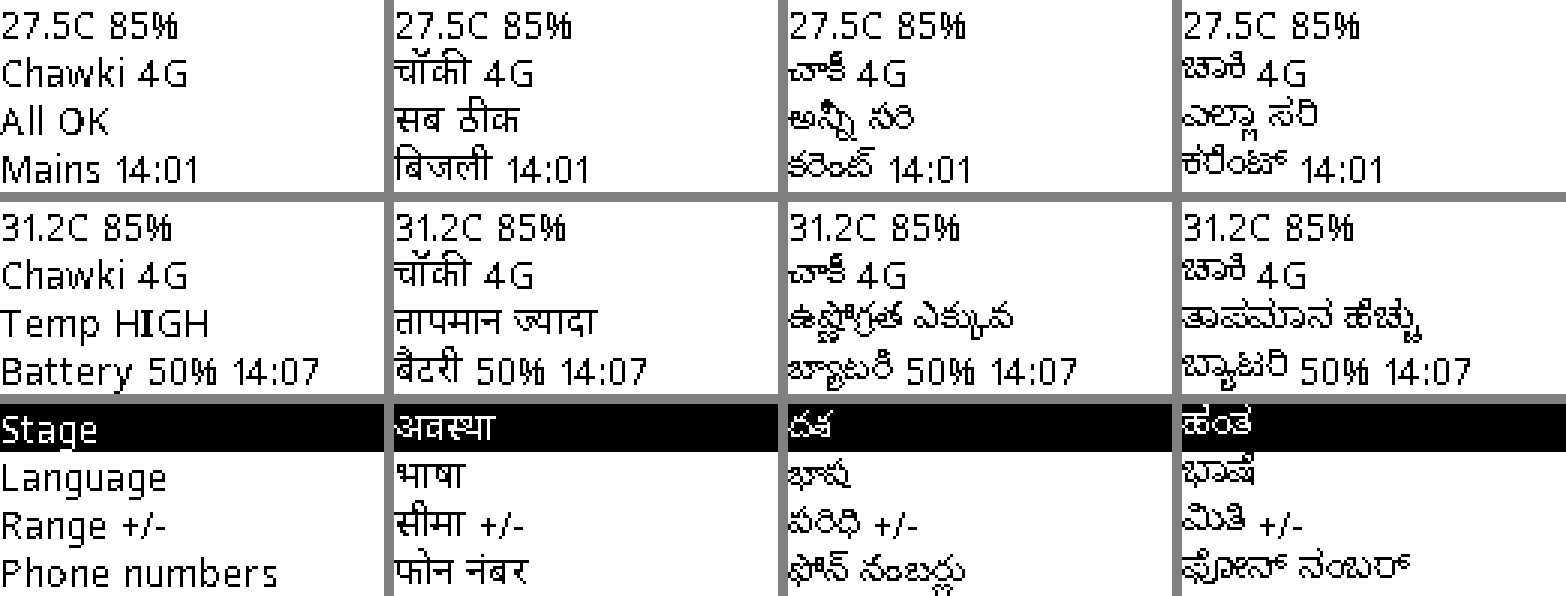
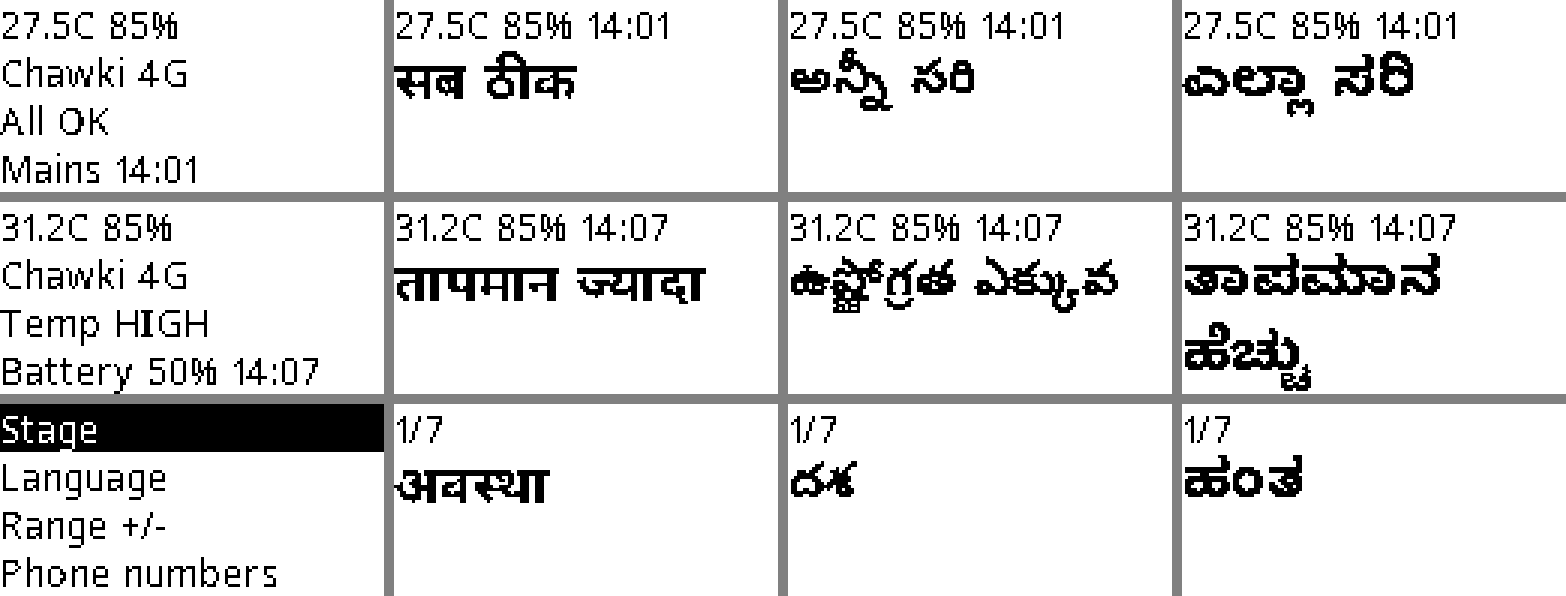
OLED large mode for Hindi/Telugu/Kannada (one item, 24 px, wrapped); record PO decisions D-033..D-035
Claude-Session: https://claude.ai/code/session_01FRs7iceLQ8kj3iKkYUVxzA

diff --git a/firmware/lib/core/src/ui.cpp b/firmware/lib/core/src/ui.cpp
@@ -56,12 +56,14 @@ void Ui::message(UiText t, int64_t now) {
 }
 
 void Ui::tick(int64_t now) {
+  uiNow_ = now;
   if (page_ == Page::Message && now >= msgUntil_) go(Page::Home);
   else if (page_ != Page::Home && page_ != Page::Message && now - lastPress_ > kIdleSec) go(Page::Home);
 }
 
 void Ui::press(Button b, int64_t now) {
   lastPress_ = now;
+  uiNow_ = now;
   const int step = b == Button::Down ? 1 : (b == Button::Up ? -1 : 0);
   Settings s = m_.settings();
   switch (page_) {
@@ -144,75 +146,97 @@ void Ui::press(Button b, int64_t now) {
   }
 }
 
-Screen Ui::render(const UiStatus& st) const {
+std::vector<std::string> Ui::listItems() const {
   const Language L = lang();
   const Settings& s = m_.settings();
   auto T = [L](UiText t) { return std::string(uiText(t, L)); };
+  std::vector<std::string> items;
   switch (page_) {
-    case Page::Home: {
-      Screen sc;
-      sc.bigFirstLine = true;
-      const Sample& x = m_.lastSample();
-      sc.lines.push_back(x.valid ? fmt::temp(x.t) + " " + fmt::rh(x.rh) : "--.-C --%");
-      const std::string link = st.wifi ? "WiFi" : (st.network ? "4G" : "4G x");
-      sc.lines.push_back(std::string(stageName(s.stage, L)) + " " + link);
-      std::string status = T(kUiAllOk);
-      for (int i = 0; i < kEventTypeCount; ++i)
-        if (m_.active(static_cast<EventType>(i))) { status = shortEventPhrase(static_cast<EventType>(i), false, L); break; }
-      sc.lines.push_back(status);
-      std::string power = m_.onBattery() ? T(kUiBattery) + " " + std::to_string(m_.batteryPct()) + "%" : T(kUiMains);
-      sc.lines.push_back(power + " " + fmt::hhmm(st.now));
-      return sc;
-    }
-    case Page::Message: {
-      Screen sc;
-      sc.lines = {"", T(msg_), "", ""};
-      return sc;
-    }
     case Page::Menu:
-      return listScreen({T(kUiStage), T(kUiLanguage), T(kUiRange), T(kUiPhones),
-                         T(kUiBuzzer) + ": " + T(s.buzzerOn ? kUiOn : kUiOff), T(kUiPrintTest), T(kUiBack)},
-                        cursor_);
-    case Page::Stage: {
-      std::vector<std::string> items;
+      return {T(kUiStage), T(kUiLanguage), T(kUiRange), T(kUiPhones),
+              T(kUiBuzzer) + ": " + T(s.buzzerOn ? kUiOn : kUiOff), T(kUiPrintTest), T(kUiBack)};
+    case Page::Stage:
       for (int i = 0; i < kStageCount; ++i) items.push_back(stageName(static_cast<Stage>(i), L));
-      return listScreen(items, cursor_);
-    }
-    case Page::Language: {
-      std::vector<std::string> items;
+      return items;
+    case Page::Language:
       for (int i = 0; i < kLanguageCount; ++i) items.push_back(languageName(static_cast<Language>(i)));
-      return listScreen(items, cursor_);
-    }
-    case Page::RangeT:
-    case Page::RangeRh: {
-      Screen sc;
-      sc.lines = {T(kUiRange), "+/-" + fmt::signedTenths(editTol_.t, true) + "C", "+/-" + fmt::rh(editTol_.rh), ""};
-      sc.highlight = page_ == Page::RangeT ? 1 : 2;
-      return sc;
-    }
-    case Page::Phones: {
-      std::vector<std::string> items;
+      return items;
+    case Page::Phones:
       for (int i = 0; i < kMaxRecipients; ++i)
         items.push_back(std::to_string(i + 1) + " " + (s.phone[i].empty() ? T(kUiEmpty) : s.phone[i]));
       items.push_back(T(kUiBack));
-      return listScreen(items, cursor_);
-    }
-    case Page::PhoneSlot: {
-      std::vector<std::string> items = {T(kUiChange)};
+      return items;
+    case Page::PhoneSlot:
+      items.push_back(T(kUiChange));
       if (slot_ != 0) items.push_back(T(kUiRemove));
       items.push_back(T(kUiBack));
-      Screen sc = listScreen(items, cursor_);
+      return items;
+    default:
+      return items;
+  }
+}
+
+Screen Ui::render(const UiStatus& st) const {
+  const Language L = lang();
+  const bool large = L != Language::English && page_ != Page::PhoneEdit;  // D-033
+  const Settings& s = m_.settings();
+  auto T = [L](UiText t) { return std::string(uiText(t, L)); };
+  Screen sc;
+  switch (page_) {
+    case Page::Home: {
+      const Sample& x = m_.lastSample();
+      const std::string reading = x.valid ? fmt::temp(x.t) + " " + fmt::rh(x.rh) : "--.-C --%";
+      const std::string link = st.wifi ? "WiFi" : (st.network ? "4G" : "4G x");
+      const std::string stage = std::string(stageName(s.stage, L)) + " " + link;
+      std::string status = T(kUiAllOk);
+      for (int i = 0; i < kEventTypeCount; ++i)
+        if (m_.active(static_cast<EventType>(i))) { status = shortEventPhrase(static_cast<EventType>(i), false, L); break; }
+      const std::string power = m_.onBattery() ? T(kUiBattery) + " " + std::to_string(m_.batteryPct()) + "%" : T(kUiMains);
+      if (large) {  // one item at a time, changing every 3 s
+        sc.large = true;
+        sc.header = reading + " " + fmt::hhmm(st.now);
+        const std::string items[3] = {status, stage, power};
+        sc.body = items[(uiNow_ / 3) % 3];
+        return sc;
+      }
+      sc.bigFirstLine = true;
+      sc.lines = {reading, stage, status, power + " " + fmt::hhmm(st.now)};
+      return sc;
+    }
+    case Page::Message:
+      if (large) { sc.large = true; sc.body = T(msg_); return sc; }
+      sc.lines = {"", T(msg_), "", ""};
+      return sc;
+    case Page::RangeT:
+    case Page::RangeRh: {
+      const std::string tval = "+/-" + fmt::signedTenths(editTol_.t, true) + "C", rval = "+/-" + fmt::rh(editTol_.rh);
+      if (large) {
+        sc.large = true;
+        sc.header = page_ == Page::RangeT ? "1/2" : "2/2";
+        sc.body = page_ == Page::RangeT ? tval : rval;
+        return sc;
+      }
+      sc.lines = {T(kUiRange), tval, rval, ""};
+      sc.highlight = page_ == Page::RangeT ? 1 : 2;
       return sc;
     }
     case Page::PhoneEdit: {
-      Screen sc;
       std::string marker(10, ' ');
       marker[digitPos_] = '^';
       sc.lines = {T(slot_ == 0 ? kUiOwner : kUiNumber), digits_, marker, ""};
       return sc;
     }
+    default: {
+      const std::vector<std::string> items = listItems();
+      if (large) {
+        sc.large = true;
+        sc.header = std::to_string(cursor_ + 1) + "/" + std::to_string(items.size());
+        sc.body = items.empty() ? "" : items[cursor_];
+        return sc;
+      }
+      return listScreen(items, cursor_);
+    }
   }
-  return {};
 }
 
 }  // namespace seri

diff --git a/firmware/test/test_ui/test_ui.cpp b/firmware/test/test_ui/test_ui.cpp
@@ -103,8 +103,16 @@ static void test_language_change_switches_the_whole_ui() {
   TEST_ASSERT_EQUAL(Language::Telugu, r.m.settings().lang[0]);
   r.run(5);
   TEST_ASSERT_EQUAL(Ui::Page::Home, r.ui.page());
-  TEST_ASSERT_EQUAL_STRING("అన్నీ సరి", r.screen().lines[2].c_str());
-  TEST_ASSERT_EQUAL_STRING("చాకీ 4G", r.screen().lines[1].c_str());
+  Screen home = r.screen();  // Telugu: large mode (D-033), one item at a time
+  TEST_ASSERT_TRUE(home.large);
+  bool sawOk = false, sawStage = false;
+  for (int i = 0; i < 9; ++i) {
+    sawOk |= r.screen().body == "అన్నీ సరి";
+    sawStage |= r.screen().body == "చాకీ 4G";
+    r.run(1);
+  }
+  TEST_ASSERT_TRUE(sawOk);
+  TEST_ASSERT_TRUE(sawStage);
 }
 
 static void test_range_edit_changes_tolerance() {
@@ -198,6 +206,55 @@ static void test_idle_returns_home() {
   TEST_ASSERT_EQUAL(Ui::Page::Home, r.ui.page());
 }
 
+static void switchToTelugu(Rig& r) {
+  Settings s = r.m.settings();
+  s.lang[0] = Language::Telugu;
+  r.m.changeSettings(s);
+}
+
+static void test_indian_language_home_uses_large_mode_and_rotates() {
+  Rig r;
+  switchToTelugu(r);
+  Screen s = r.screen();
+  TEST_ASSERT_TRUE(s.large);
+  TEST_ASSERT_EQUAL_STRING("27.5C 85% 14:06", s.header.c_str());
+  std::vector<std::string> seen;
+  for (int i = 0; i < 9; ++i) { seen.push_back(r.screen().body); r.run(1); }
+  auto has = [&](const char* x) { for (auto& b : seen) if (b == x) return true; return false; };
+  TEST_ASSERT_TRUE_MESSAGE(has("అన్నీ సరి"), "status shown");
+  TEST_ASSERT_TRUE_MESSAGE(has("చాకీ 4G"), "stage shown");
+  TEST_ASSERT_TRUE_MESSAGE(has("కరెంట్"), "power shown");
+}
+
+static void test_indian_language_menu_shows_one_large_item_with_position() {
+  Rig r;
+  switchToTelugu(r);
+  r.press(Button::Ok);
+  Screen s = r.screen();
+  TEST_ASSERT_TRUE(s.large);
+  TEST_ASSERT_EQUAL_STRING("దశ", s.body.c_str());
+  TEST_ASSERT_EQUAL_STRING("1/7", s.header.c_str());
+  r.press(Button::Down);
+  TEST_ASSERT_EQUAL_STRING("భాష", r.screen().body.c_str());
+  TEST_ASSERT_EQUAL_STRING("2/7", r.screen().header.c_str());
+}
+
+static void test_english_keeps_four_line_mode() {
+  Rig r;
+  TEST_ASSERT_FALSE(r.screen().large);
+}
+
+static void test_phone_editor_stays_small_in_every_language() {
+  Rig r;
+  switchToTelugu(r);
+  r.press(Button::Ok);
+  for (int i = 0; i < 3; ++i) r.press(Button::Down);
+  r.press(Button::Ok); r.press(Button::Ok); r.press(Button::Ok);
+  TEST_ASSERT_EQUAL(Ui::Page::PhoneEdit, r.ui.page());
+  TEST_ASSERT_FALSE(r.screen().large);
+  TEST_ASSERT_TRUE(r.shows("9876543210"));
+}
+
 static void test_every_ui_text_exists_in_every_language() {
   for (int l = 0; l < kLanguageCount; ++l)
     for (int t = 0; t < kUiTextCount; ++t)
@@ -218,5 +275,9 @@ int main() {
   RUN_TEST(test_buzzer_toggle_and_print_test);
   RUN_TEST(test_idle_returns_home);
   RUN_TEST(test_every_ui_text_exists_in_every_language);
+  RUN_TEST(test_indian_language_home_uses_large_mode_and_rotates);
+  RUN_TEST(test_indian_language_menu_shows_one_large_item_with_position);
+  RUN_TEST(test_english_keeps_four_line_mode);
+  RUN_TEST(test_phone_editor_stays_small_in_every_language);
   return UNITY_END();
 }

diff --git a/firmware/test/test_text_render/test_text_render.cpp b/firmware/test/test_text_render/test_text_render.cpp
@@ -92,6 +92,30 @@ static void test_every_printed_line_exists_and_fits_384_dots() {
   }
 }
 
+static void check_large_body(const std::string& s) {
+  std::vector<std::string> rows = wrapText(s, kPrintCell, kOledWidth);
+  if (rows.empty() || rows.size() > 2) TEST_FAIL_MESSAGE(("needs " + std::to_string(rows.size()) + " rows: " + s).c_str());
+  for (auto& r : rows) check_line(r, kPrintCell, kOledWidth);
+}
+
+static void test_wrap_splits_at_spaces() {
+  std::vector<std::string> rows = wrapText("ಮೆಮೊರಿ ಕಾರ್ಡ್ ದೋಷ", kPrintCell, kOledWidth);
+  TEST_ASSERT_EQUAL(2, rows.size());
+  TEST_ASSERT_EQUAL(1, wrapText("27.5C", kPrintCell, kOledWidth).size());
+}
+
+static void test_every_large_mode_text_fits_two_rows_of_128px() {
+  for (int l = 1; l < kLanguageCount; ++l) {
+    const Language L = static_cast<Language>(l);
+    for (int t = 0; t < kUiTextCount; ++t) check_large_body(uiText(static_cast<UiText>(t), L));
+    for (int s = 0; s < kStageCount; ++s) check_large_body(std::string(stageName(static_cast<Stage>(s), L)) + " WiFi");
+    check_large_body(languageName(L));
+    for (int e = 0; e < kEventTypeCount; ++e) check_large_body(shortEventPhrase(static_cast<EventType>(e), false, L));
+    check_large_body(std::string(uiText(kUiBattery, L)) + " 100%");
+    check_large_body(std::string(uiText(kUiBuzzer, L)) + ": " + uiText(kUiOff, L));
+  }
+}
+
 int main() {
   UNITY_BEGIN();
   RUN_TEST(test_ascii_renders_at_both_sizes);
@@ -99,5 +123,7 @@ int main() {
   RUN_TEST(test_padding_for_printer);
   RUN_TEST(test_every_oled_text_exists_and_fits_128px);
   RUN_TEST(test_every_printed_line_exists_and_fits_384_dots);
+  RUN_TEST(test_wrap_splits_at_spaces);
+  RUN_TEST(test_every_large_mode_text_fits_two_rows_of_128px);
   return UNITY_END();
 }

diff --git a/firmware/src/hal_esp32/oled.cpp b/firmware/src/hal_esp32/oled.cpp
@@ -9,6 +9,19 @@ void Oled::begin() {
 
 void Oled::show(const seri::Screen& s) {
   u8g2_.clearBuffer();
+  if (s.large) {  // D-033: ASCII header + one item in 24 px text, wrapped onto <= 2 rows
+    u8g2_.setFont(u8g2_font_helvB10_tr);
+    u8g2_.drawStr(0, 12, s.header.c_str());
+    int y = seri::kOledCell;
+    for (const std::string& row : seri::wrapText(s.body, seri::kPrintCell, seri::kOledWidth)) {
+      if (y + seri::kPrintCell > 64) break;
+      seri::Bitmap b = seri::renderText(row, seri::kPrintCell);
+      u8g2_.drawBitmap(0, y, static_cast<u8g2_uint_t>(b.widthBytes()), static_cast<u8g2_uint_t>(b.height), b.bits.data());
+      y += seri::kPrintCell;
+    }
+    u8g2_.sendBuffer();
+    return;
+  }
   for (size_t i = 0; i < s.lines.size() && i < 4; ++i) {
     const int y = static_cast<int>(i) * seri::kOledCell;
     if (i == 0 && s.bigFirstLine) {  // the reading: always ASCII, bold font

diff --git a/firmware/lib/core/include/seri/ui.h b/firmware/lib/core/include/seri/ui.h
@@ -14,6 +14,11 @@ struct Screen {
   std::vector<std::string> lines;  // 4 lines of 16 px on 128x64
   int highlight = -1;              // menu line drawn inverted
   bool bigFirstLine = false;       // home screen: reading in a large font
+  // Large mode (Hindi/Telugu/Kannada, decision D-033): a small ASCII header (16 px) and ONE item
+  // in 24 px text, word-wrapped onto at most 2 rows. `lines` is unused when large is true.
+  bool large = false;
+  std::string header;
+  std::string body;
 };
 
 struct UiStatus {
@@ -53,7 +58,8 @@ class Ui {
   int digitPos_ = 0;
   Tolerance editTol_;
   UiText msg_ = kUiSaved;
-  int64_t lastPress_ = 0, msgUntil_ = 0;
+  int64_t lastPress_ = 0, msgUntil_ = 0, uiNow_ = 0;
+  std::vector<std::string> listItems() const;  // items of the current list page
 };
 
 }  // namespace seri

diff --git a/firmware/lib/core/src/text_render.cpp b/firmware/lib/core/src/text_render.cpp
@@ -105,4 +105,23 @@ Bitmap renderText(const std::string& utf8, int cell, int widthPad, std::vector<s
   return b;
 }
 
+std::vector<std::string> wrapText(const std::string& utf8, int cell, int width) {
+  std::vector<std::string> rows;
+  std::string row;
+  size_t i = 0;
+  while (i <= utf8.size()) {
+    size_t j = utf8.find(' ', i);
+    if (j == std::string::npos) j = utf8.size();
+    const std::string word = utf8.substr(i, j - i);
+    if (!word.empty()) {
+      const std::string candidate = row.empty() ? word : row + " " + word;
+      if (row.empty() || measureText(candidate, cell) <= width) row = candidate;
+      else { rows.push_back(row); row = word; }
+    }
+    i = j + 1;
+  }
+  if (!row.empty()) rows.push_back(row);
+  return rows;
+}
+
 }  // namespace seri

diff --git a/firmware/lib/core/include/seri/text_render.h b/firmware/lib/core/include/seri/text_render.h
@@ -33,5 +33,7 @@ struct Bitmap {
 int measureText(const std::string& utf8, int cell, std::vector<std::string>* missing = nullptr);
 // widthPad > 0: bitmap padded (or clipped) to that width, e.g. 384 for the printer.
 Bitmap renderText(const std::string& utf8, int cell, int widthPad = 0, std::vector<std::string>* missing = nullptr);
+// Splits a line at spaces into rows no wider than `width` (a single over-wide word stays on its own row).
+std::vector<std::string> wrapText(const std::string& utf8, int cell, int width);
 
 }  // namespace seri

diff --git a/docs/decisions.md b/docs/decisions.md
@@ -37,3 +37,6 @@ Newest last. Fixed decisions from the brief are in `requirements.md` §2 and are
 | D-030 | 2026-11-22 | OTA: images are kept "pending" until 5 minutes of healthy running, else the bootloader rolls back. Authenticity relies on HTTPS with a pinned CA. **Code signing is not available** with the prebuilt Arduino framework; it needs the ESP-IDF build (planned with the integrated PCB). | Changes F-OTA-02 for version 1; flagged to the product owner. OTA download cannot be exercised in Wokwi. |
 | D-031 | 2026-11-22 | The CI workflow runs on push only (not also on pull_request). | Avoids running every Wokwi scenario twice per commit (Wokwi CI minutes are limited). |
 | D-032 | 2026-11-22 | Simulation build reads the battery ADC with Wokwi's linear model (raw x 5000/4095, measured in CI runs 8-9); the hardware build uses the eFuse-calibrated `analogReadMilliVolts()`. | CI run 8 showed Wokwi does not emulate ADC calibration: 3.90 V read as 2.97 V. Real battery-reading accuracy needs a bench check with a one-point trim (test plan). |
+| D-033 | 2026-11-22 | **OLED large mode for Hindi, Telugu, Kannada** (product owner, 2026-11-22): a small ASCII header (reading and time, or position "3/7") plus ONE item in 24 px text, word-wrapped onto at most 2 rows. The home screen rotates status / stage / power every 3 s. English keeps the 4-line layout; the phone-number editor stays in small digits in every language. | At 16 px the Indian-script letter bodies were only about 8 px tall. A test checks every large-mode text fits 2 rows of 128 px. |
+| D-034 | 2026-11-22 | **Firmware-update signing is out of scope for version 1** (product owner, 2026-11-22). Rollback of a bad image stays. Requirement F-OTA-02 is deferred. | Not important for version 1; revisit with the integrated PCB / ESP-IDF build. |
+| D-035 | 2026-11-22 | All Wokwi scenarios run on every push that touches firmware, simulation or tools (product owner, 2026-11-22). Single scenarios can still be started by hand. | Product-owner choice; Wokwi minutes are not a constraint for now. |

diff --git a/docs/requirements.md b/docs/requirements.md
@@ -139,7 +139,7 @@ Incubation RH widened to 70–80 % on 2026-11-22 (CSB Belgaum: 75 ± 5 %). No mo
 | ID | Requirement | Verified by |
 |---|---|---|
 | F-OTA-01 | Over-the-air update over Wi-Fi only, using two app partitions with automatic rollback if the new image does not confirm itself healthy within 5 minutes. | P2 (partition/rollback logic), BENCH |
-| F-OTA-02 | Images are signed. Unsigned or tampered images are rejected. [ASSUMED] | P2 |
+| F-OTA-02 | ~~Images are signed.~~ **Deferred beyond version 1 (D-034, product owner).** | — |
 | F-OTA-03 | No update while running on battery or below 50 % charge. | P1 |
 
 ## 4. Reliability ("must not happen")
